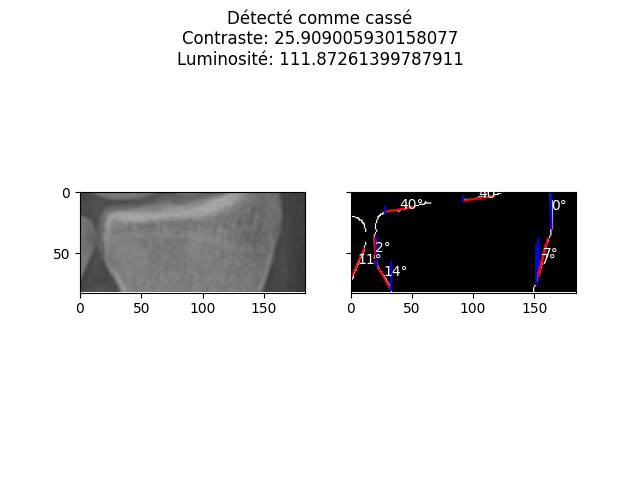
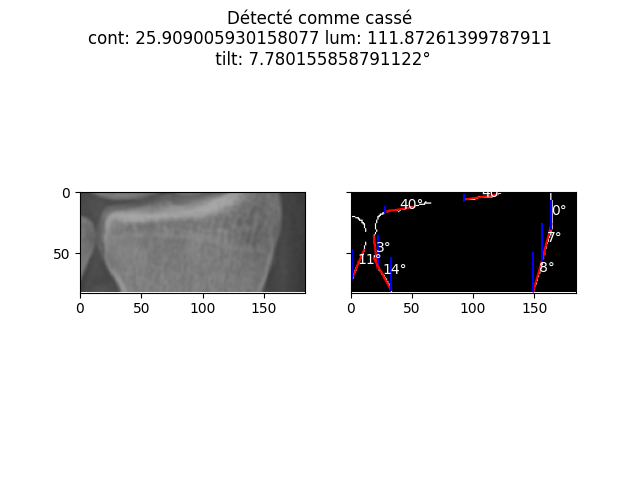
first attempt at tilt detection

diff --git a/detect.py b/detect.py
@@ -1,10 +1,8 @@
+from detect_tilt import image_tilt
 from typing import Optional
-from angles import display_lines, get_lines, get_lines_probabilistic
+from angles import display_lines, get_lines_probabilistic
 from pathlib import Path
-from svgpathtools import svg2paths
-from potrace import Bitmap
 import cv2
-import potrace
 import numpy as np
 import matplotlib.pyplot as plt
 from utils import *
@@ -70,7 +68,7 @@ def save_figure(image_path: Path, save: Optional[Path] = None):
         return
     broken = is_broken([ angle for _, _, angle in lines ])
     fig, ax = plt.subplots(1, 2, sharex=True, sharey=True)
-    fig.suptitle(f"Détecté comme {'cassé' if broken else 'sain'}\nContraste: {contrast_of(image)}\nLuminosité: {brightness_of(image)}")
+    fig.suptitle(f"Détecté comme {'cassé' if broken else 'sain'}\ncont: {contrast_of(image)} lum: {brightness_of(image)}\n tilt: {image_tilt(lines)/(2*np.pi)*180}°")
     ax[0].imshow(original)
     # ax[1].imshow(edges)
     display_lines(ax[1], center_of(edges), lines)

diff --git a/detect_tilt.py b/detect_tilt.py
@@ -1,0 +1,28 @@
+"""
+Corrects tilted images
+"""
+from numpy import pi
+from utils import mean
+from classify import Segment
+
+tau = 2 * pi
+
+
+def image_tilt(segments: list[Segment], ε: float = 2 / 180 * tau, max_tilt: float = 15 / 180 * tau) -> float:
+    """
+    Returns the angle (in radians) the image is tilted at
+
+    Relies on the fact the the majority of detected segments will be (physically) upright
+
+    Angles greater than max_tilt will not be included in the calculation.
+    """
+
+    mean_angle = mean(angle for _, _, angle in segments if angle <= max_tilt)
+    print(f"[tilt] mean angle is {mean_angle/tau*180}°")
+    print(
+        f"[tilt] (ε={ε/tau*180}°) kept angles are [{' '.join('%d° <%2f°>' % ((a/tau*180), abs(a - mean_angle)/tau*180) for _, _, a in segments if not (abs(a - mean_angle) <= ε))}]"
+    )
+    try:
+        return mean(angle for _, _, angle in segments if abs(angle - mean_angle) <= ε)
+    except ZeroDivisionError:
+        return 0
